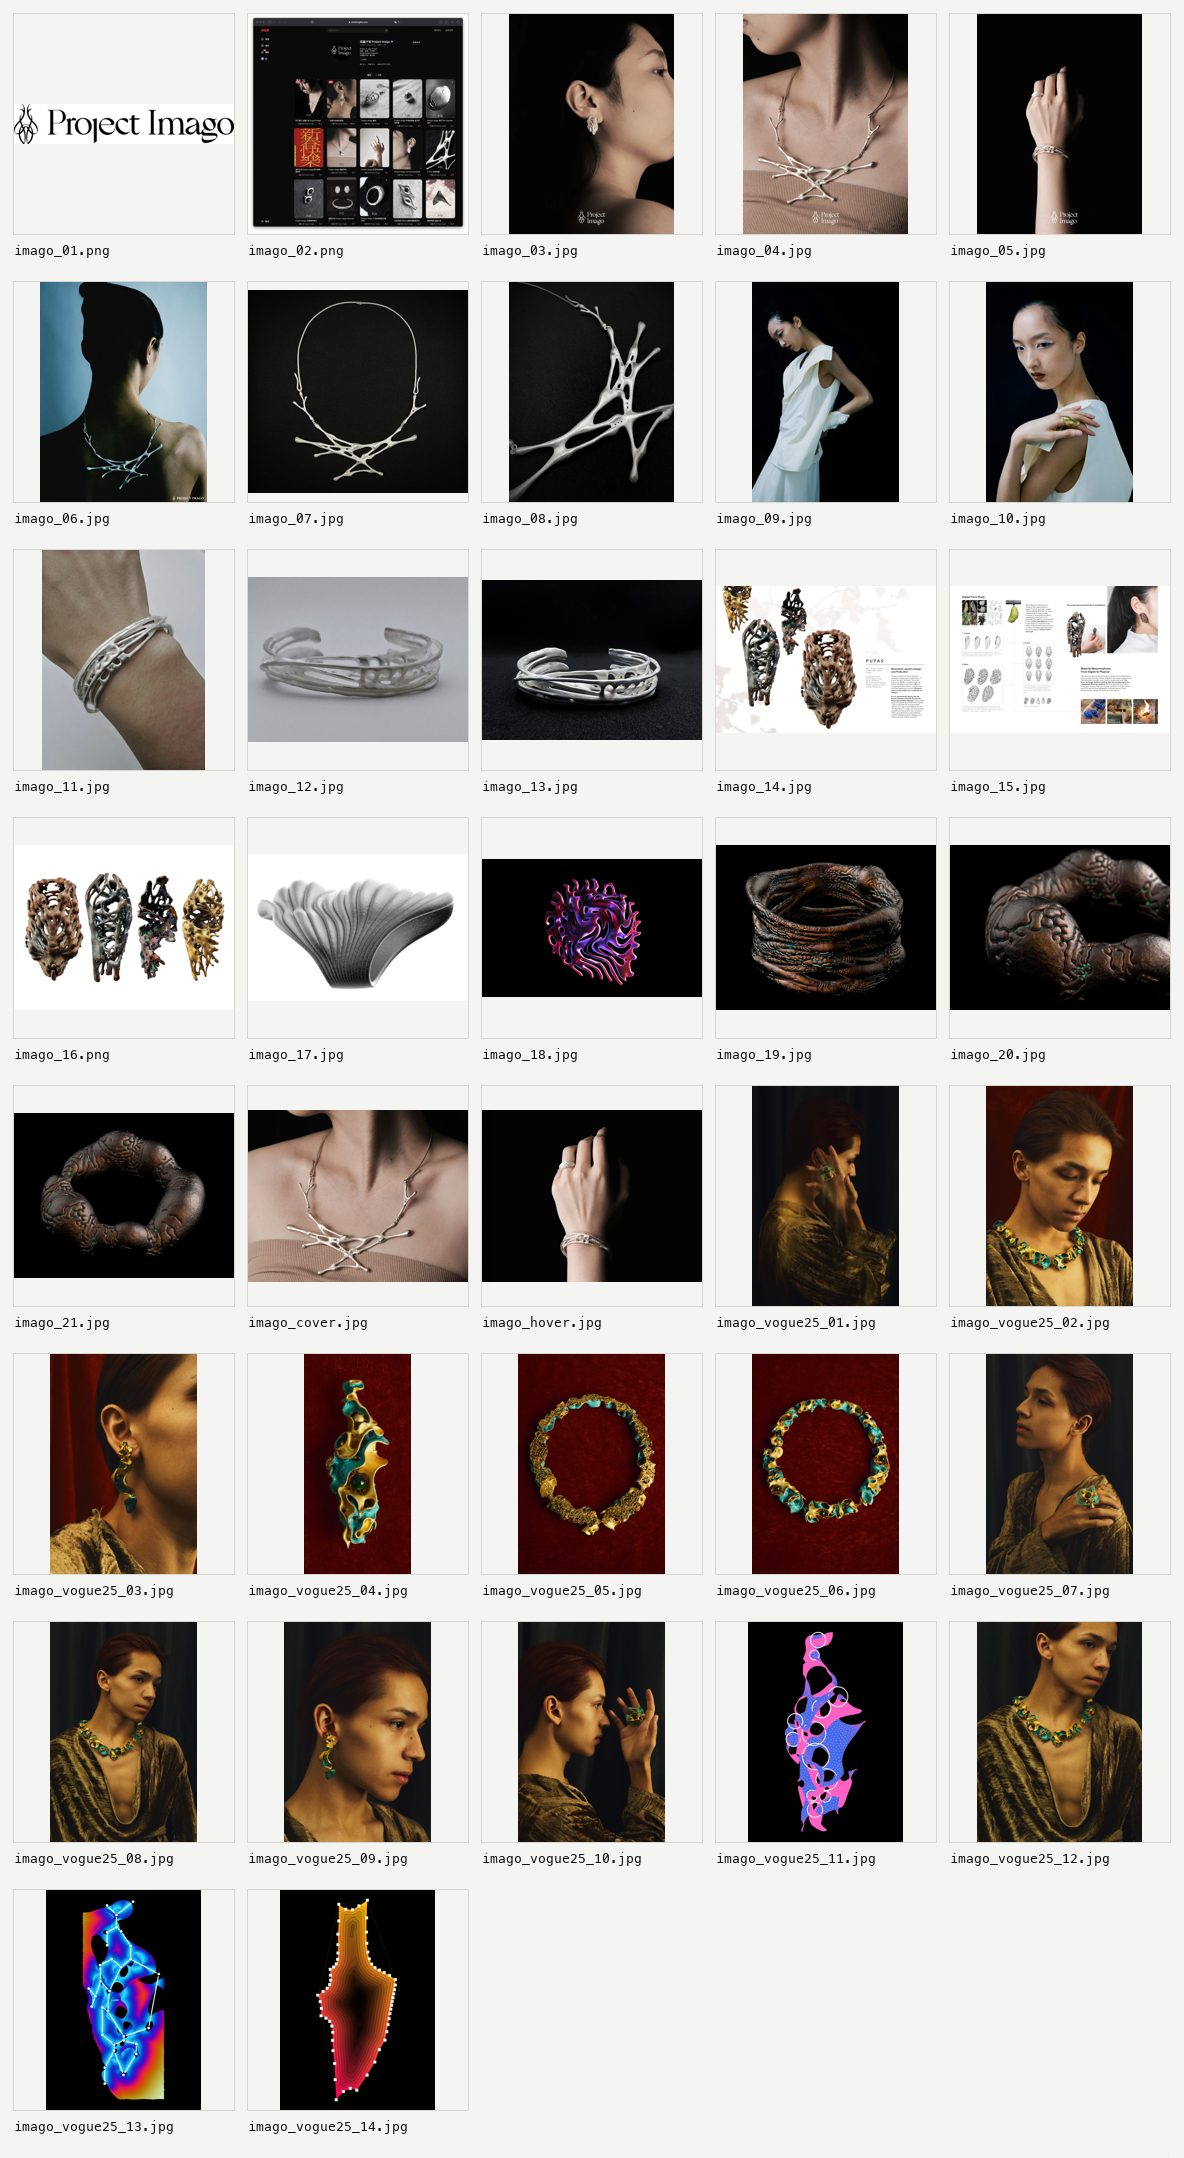
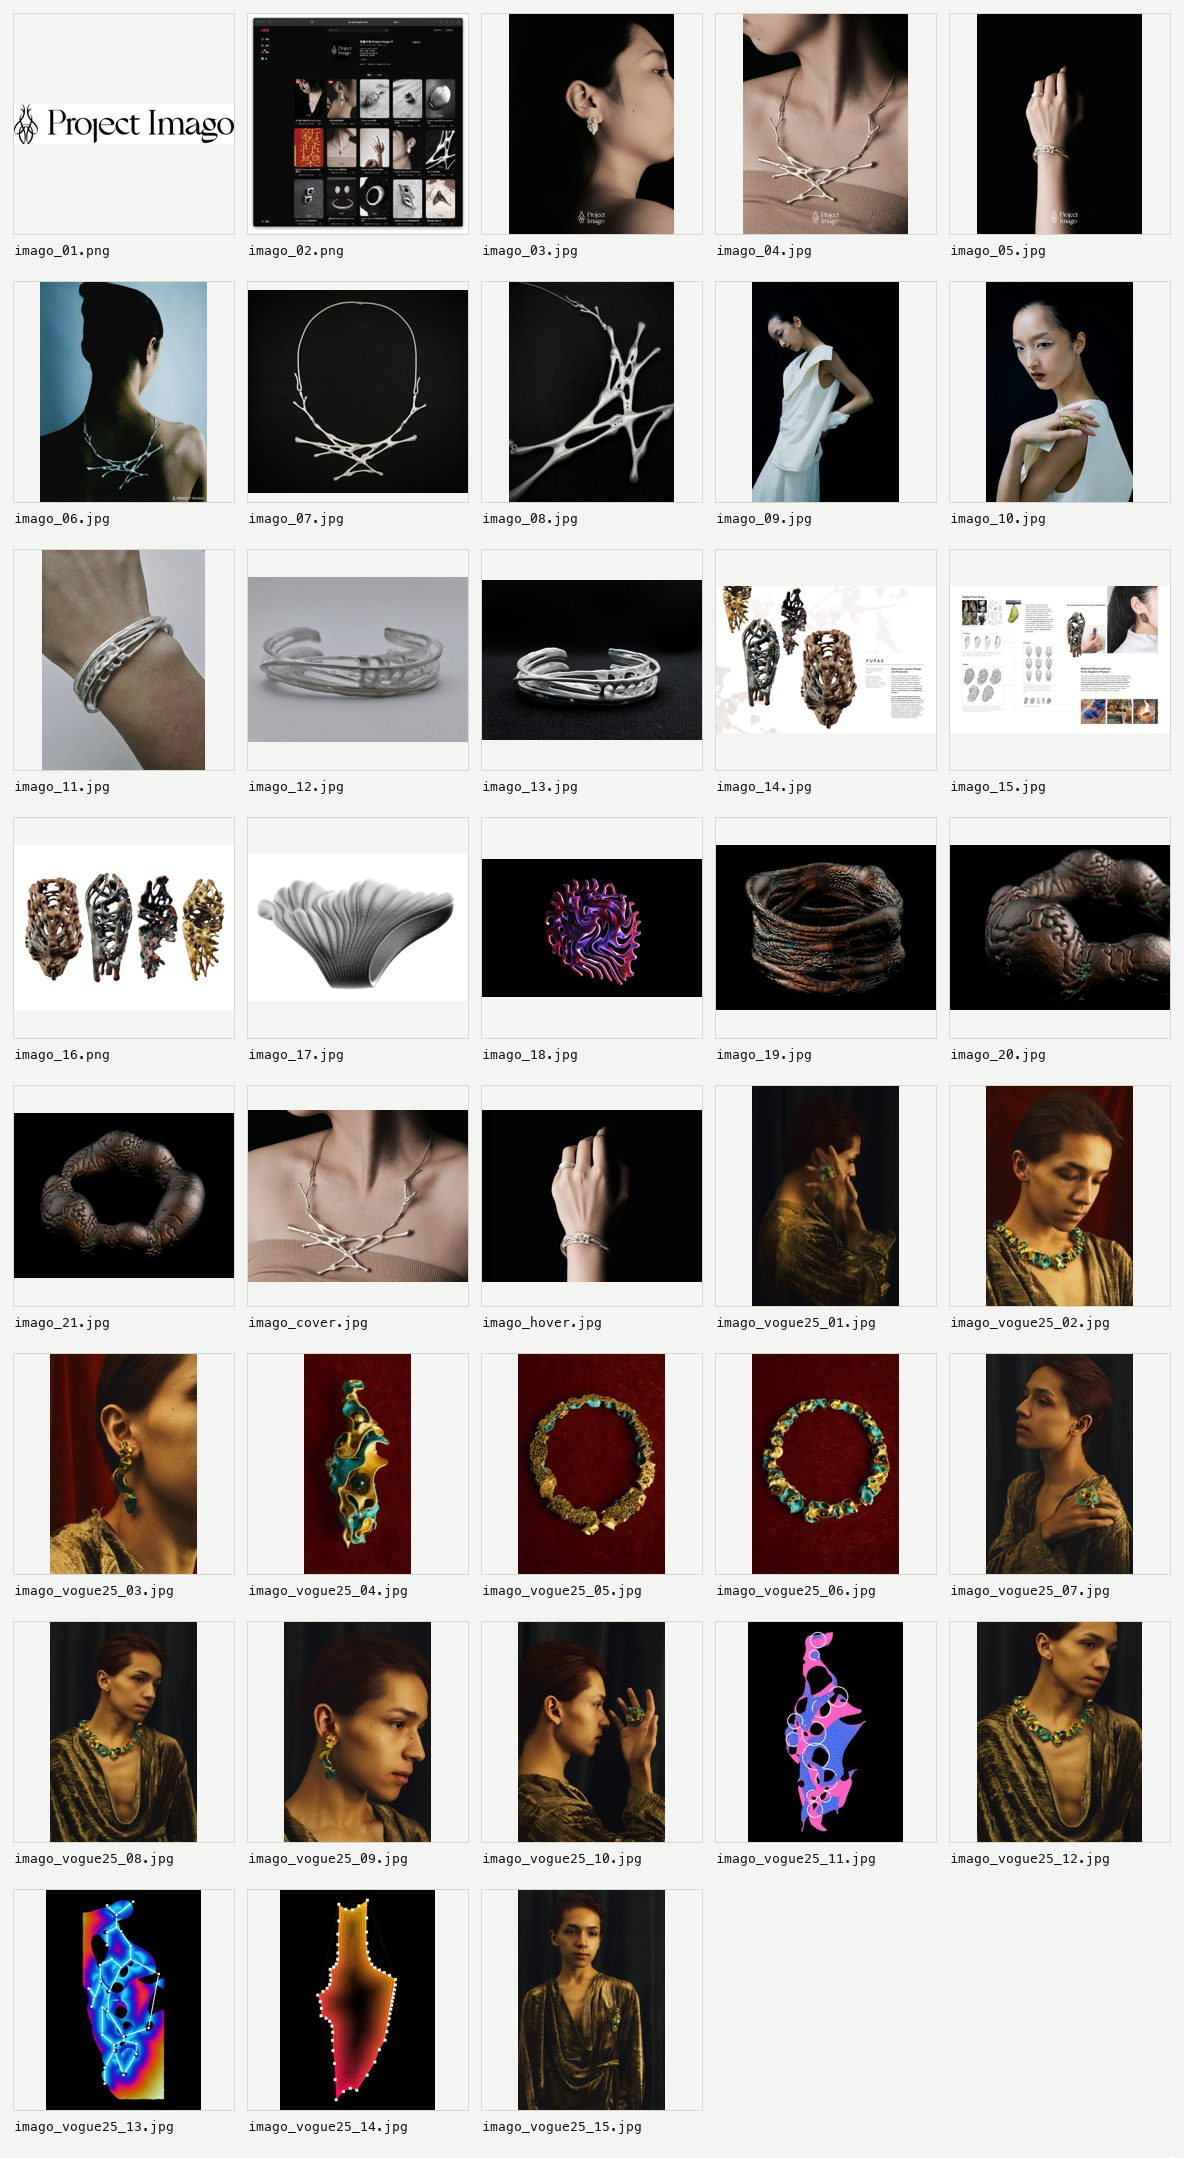
Imago: Vogue 2025 series after the Red screenshot, Vogue 02 as the page hero; portrait heroes cap at screen height

Changed region(s): [[0.4375, 0.8693, 0.5625, 0.9935]]

diff --git a/content/imago/project.md b/content/imago/project.md
@@ -8,7 +8,7 @@ discipline: CD                     # 旧分类，现在不显示，可忽略
 legacy: https://kaizhang.io/pupas  # 旧网站地址，仅备查
 cover: imago_vogue25_10.jpg        # 首页封面（32:25 裁切）
 hover: imago_vogue25_08.jpg        # 鼠标悬停时换成的图或循环视频
-hero: imago_cover.jpg              # 项目页顶部大图；没有这行就用封面；inline = 顶部不放大图
+hero: imago_vogue25_02.jpg         # 项目页顶部大图；没有这行就用封面；inline = 顶部不放大图
 hero_width: half                   # 顶部大图宽度：full（整宽）/ wide（三分之二）/ half（一半），靠左
 ---
 
@@ -37,6 +37,26 @@ hero_width: half                   # 顶部大图宽度：full（整宽）/ wide
 Project Imago is a wearable sculpture laboratory led by graduates from Harvard University, Massachusetts Institute of Technology, and Rhode Island School of Design with backgrounds in media design, contemporary jewelry, contemporary painting, industrial design, and architecture. These wearable sculptures are intended to be used as jewelry, with the brand offering parametrically generated bracelets, earrings, and necklaces that go through hand-crafted surface treatments to capture the elusive and unknowable natural imagery. {beside-r}
 
 ![](imago_02.png "It's launched and available for purchase on Red (XiaoHongShu).") half-l
+
+### 2025 VOGUE China Fashion Fund & Jewelry Competition
+
+Collaborated with 唐牧冢
+
+![](imago_vogue25_08.jpg) @1-6
+
+![](imago_vogue25_05.jpg) @5-9
+
+![](imago_vogue25_06.jpg) @9-13
+
+![](imago_vogue25_07.jpg) @1-5
+
+![](imago_vogue25_10.jpg) @5-9
+
+![](imago_vogue25_15.jpg) @4-8
+
+![](imago_vogue25_04.jpg) @8-12
+
+[gallery grid3] imago_vogue25_11.jpg imago_vogue25_12.jpg imago_vogue25_13.jpg
 
 [gallery grid3] imago_03.jpg imago_04.jpg imago_05.jpg
 
